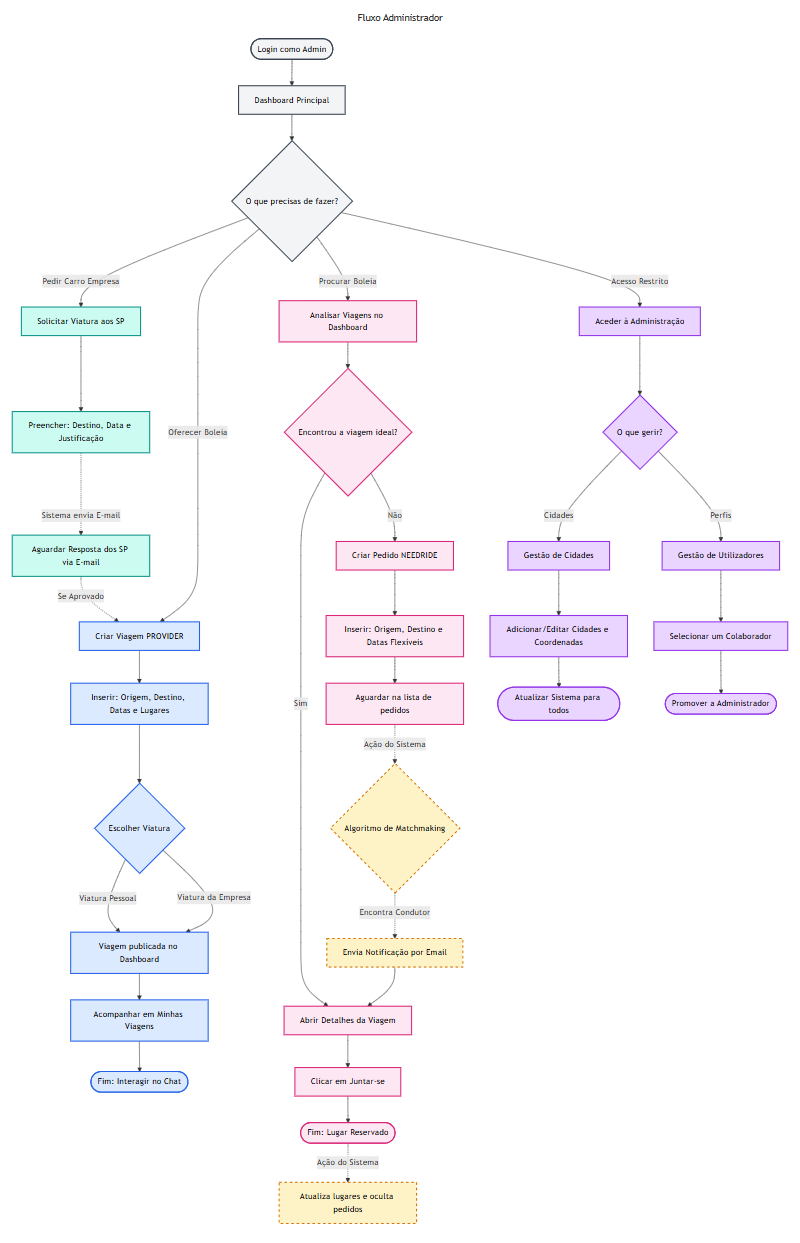
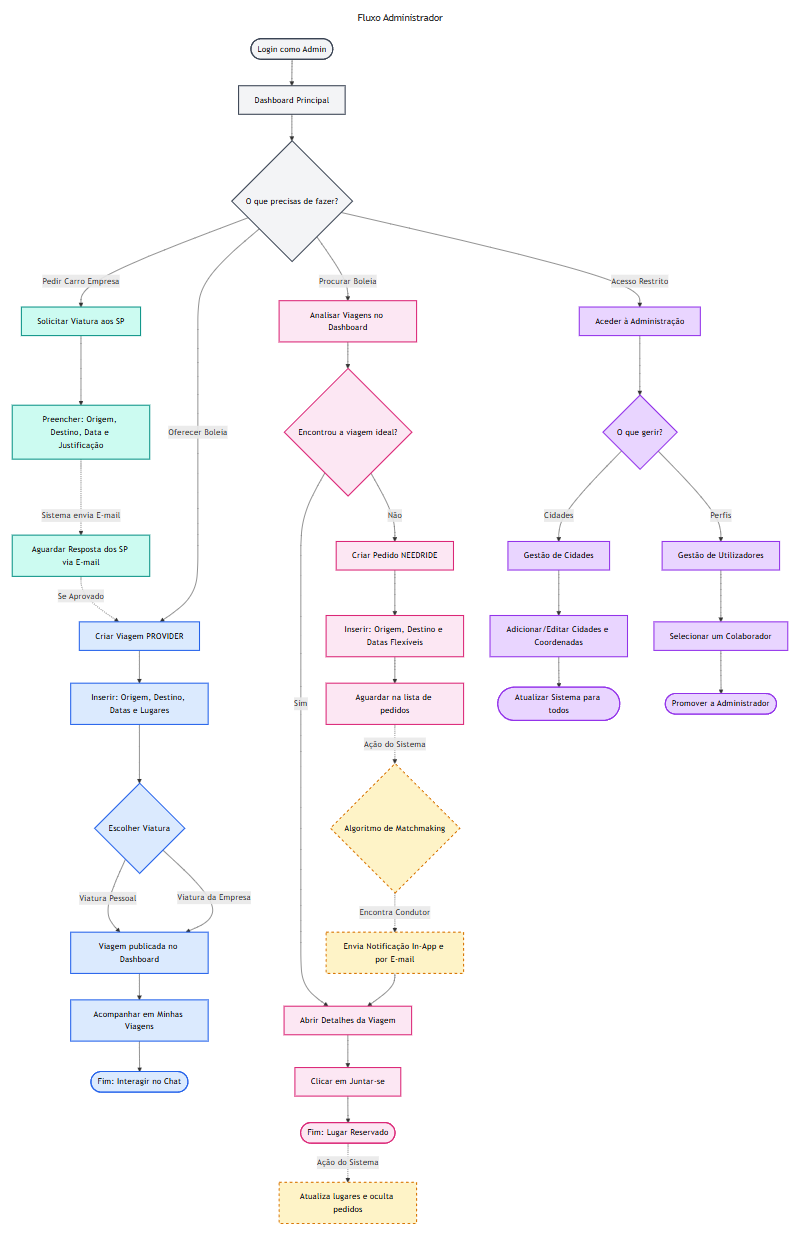
Atualizados diagramas e base de dados

Changed region(s): [[0.0, 0.3057, 0.1875, 0.3974], [0.4062, 0.7337, 0.5938, 0.7949]]

diff --git a/Documentation/Diagramas/base-dados1.md b/Documentation/Diagramas/base-dados1.md
@@ -1,9 +1,9 @@
 # Arquitetura da Base de Dados
 
 ## Conceito e Objetivo
-A plataforma utiliza uma base de dados relacional PostgreSQL, gerida através da ferramenta Drizzle ORM. A arquitetura foi desenhada para garantir a integridade dos dados, evitar duplicação de informação e suportar consultas rápidas e complexas (como as exigidas pelo Algoritmo de Matchmaking). O modelo de dados gira em torno de 7 entidades principais:
+A plataforma utiliza uma base de dados relacional PostgreSQL, gerida através da ferramenta Drizzle ORM. A arquitetura foi desenhada para garantir a integridade dos dados, evitar duplicação de informação e suportar consultas rápidas e complexas (como as exigidas pelo Algoritmo de Matchmaking). O modelo de dados gira em torno de 8 entidades principais:
 
-1. **Utilizadores (users)**: É a tabela central de identidades. Guarda tanto a informação de segurança gerida pela sincronização com o Firebase (onde o Firebase ID atua como a Chave Primária) como os dados de perfil preenchidos pelo colaborador (veículo pessoal, telemóvel, avatar). Também define quem tem privilégios de administração (is_admin).
+1. **Utilizadores (users)**: É a tabela central de identidades. Guarda a informação de segurança gerida pela sincronização com o Firebase (onde o Firebase ID atua como a Chave Primária), bem como os dados de perfil preenchidos pelo colaborador (veículo pessoal, telemóvel, avatar). Define quem tem privilégios de administração (is_admin) e agora suporta também a autenticação OTP, guardando temporariamente o código de verificação de 6 dígitos e a sua respetiva validade de expiração.
 
 2. **Viagens (trips)**: É o pilar central da organização. Esta tabela guarda dois tipos de registos distintos através da coluna 'type':
     - as ofertas de boleias dos condutores (PROVIDER);
@@ -14,10 +14,12 @@ A plataforma utiliza uma base de dados relacional PostgreSQL, gerida através da
 
 4. **Mensagens (messages)**: Suporta o chat interno da plataforma. Para garantir que as conversas têm o contexto certo, o sistema não liga a mensagem a um destinatário específico, mas sim à tabela de Viagens. Cada mensagem liga um remetente (users) a uma viagem (trips), funcionando como um chat focado nessa boleia.
 
-5. **Matches (matches)**: É a tabela de histórico de matches encontrados. Regista o momento em que o algoritmo encontrou compatibilidade entre duas viagens diferentes.
+5. **Leituras de Chat (chat_reads)**: Tabela especializada para gestão granular de notificações. Guarda, para cada utilizador e para cada viagem que ele integra, a data e hora exata em que o chat foi aberto pela última vez. Isto permite à plataforma calcular individualmente quem tem mensagens novas/não lidas num chat de grupo e ativar as notificações In-App.
 
-6. **Cidades (cities)**: Tabela de referência e gestão administrativa. Guarda o catálogo de cidades (nome) usadas nos formulários de criação de viagem. Sendo uma tabela independente, permite aos administradores 'ligar ou desligar' cidades sem quebrar os registos existentes. Permite identificar quais destas localidades são escritórios oficiais da empresa (is_office).
+6. **Matches (matches)**: É a tabela de matches encontrados. Regista o momento em que o algoritmo encontrou compatibilidade entre duas viagens diferentes. Inclui um estado de leitura fundamental (is_read) para gerir as notificações In-App e os alertas visuais nos menus.
 
-7. **Pedidos de Viatura (sp_requests)**: Tabela de histórico de gestão de veículos. Regista todos os pedidos formais de viaturas da empresa feitos pelos colaboradores aos Serviços Partilhados, guardando a data pretendida, o destino e a justificação. Funciona como um comprovativo para o utilizador na plataforma.
+7. **Cidades (cities)**: Tabela de referência e gestão administrativa. Guarda o catálogo de cidades (nome) usadas nos formulários de criação de viagem. Sendo uma tabela independente, permite aos administradores 'ligar ou desligar' cidades sem quebrar os registos existentes. Permite identificar quais destas localidades são escritórios oficiais da empresa (is_office).
+
+8. **Pedidos de Viatura (sp_requests)**: Tabela de histórico de gestão de veículos. Regista todos os pedidos formais de viaturas da empresa feitos pelos colaboradores aos Serviços Partilhados, relacionando as chaves estrangeiras de origem e destino diretamente com a tabela de cidades. Guarda também a data pretendida e a justificação, funcionando como um histórico e comprovativo para o utilizador na plataforma.
 
 [Diagrama da Base de Dados](base-dados.md)

diff --git a/Documentation/Projeto_Informacao.md b/Documentation/Projeto_Informacao.md
@@ -28,11 +28,11 @@ A autenticação dos diversos utilizadores é realizada através da conta google
 ## Funcionalidades
 
 - **Dashboard**: Lista as próximas viagens disponíveis, ordenadas por data ou por localizações.
-- **Minhas Viagens**: Organizada por viagens ativas, correspondências (matches) e histórico de viagens.
+- **Minhas Viagens**: Organizada por viagens ativas, histórico e "Matches", onde o utilizador pode visualizar correspondências para os seus pedidos e utilizar um botão de ação rápida para "Reservar Lugar" diretamente na viagem.
 - **Detalhes da Viagem**: Informação detalhada sobre o trajeto, condutor, observações e lista de participantes atualizada.
 - **Perfil**: Gerir dados pessoais, preferências de condutor (veículo, lugares), regras de passageiros e o registo da viatura pessoal (para preenchimento automático em futuras viagens).
 - **Administração de Cidades**: Área restrita para administradores gerirem a lista de cidades portuguesas disponíveis e as suas coordenadas geográficas.
-- **Autenticação**: Login e verificação de e-mail.
+- **Autenticação**: Login com Google ou Email/Palavra-Passe, suportado por um sistema de verificação OTP (One-Time Password), código de 6 dígitos, que permite validar a conta diretamente na plataforma.
 - **Gestão de Frota (Serviços Partilhados)**: Capacidade de o colaborador solicitar uma viatura da empresa para uma deslocação específica, gerando um pedido formal por e-mail e mantendo um histórico de solicitações na plataforma.
 
 ## Tecnologias Utilizadas
@@ -56,7 +56,7 @@ A autenticação dos diversos utilizadores é realizada através da conta google
 1. O colaborador acede à plataforma e cria uma nova viagem.
 2. O formulário adapta-se e pede dados precisos: origem, destino, data e hora de partida, lugares disponíveis e o tipo de veículo a utilizar (Viatura pessoal ou da Empresa). Se selecionar viatura pessoal, os dados são preenchidos automaticamente através do seu perfil.
 3. Após submeter, a viagem fica visível no dashboard para todos os colegas visualizarem.
-4. O condutor pode acompanhar na aba "Minhas Viagens" quem se juntou à viagem, os lugares disponíveis e pode usar o sistema de mensagens para combinar detalhes com os passageiros.
+4. O condutor pode acompanhar na aba "Minhas Viagens" quem se juntou à viagem e os lugares disponíveis. Pode usar o sistema de mensagens restrito para combinar detalhes com os passageiros. Este chat só é ativado se existirem lugares reservados e o acesso é estritamente limitado ao condutor e aos passageiros confirmados.
 
 ### Fluxo do Passageiro (NEEDRIDE)
 O passageiro pode fazer 2 coisas:
@@ -89,8 +89,8 @@ Para que os utilizadores não tenham de perder tempo a procurar manualmente, a a
 
 [Fluxo da Gestão de Lugares - Diagrama](Diagramas/fluxo-lugares.md)
 - **Gestão de Datas**: O formulário adapta-se consoante o tipo de utilizador; se for um condutor, exige que se coloque data e hora exatas, mas se for um pedido de boleia dá para colocar intervalos de tempo flexíveis.
-- **Ocultação**: Se um utilizador tinha feito um pedido de boleia, mas juntou-se a uma viagem coincidente, então o seu pedido de boleia é ocultado da dashboard.
-- **Notificações**: O sistema envia e-mails em momentos-chave: quando um match é encontrado, para informar que um utilizador se juntou à viagem, para avisar caso a viagem seja cancelada, e para encaminhar pedidos de viaturas diretamente para o departamento de Serviços Partilhados.
+- **Ocultação Automática**: Assim que um utilizador aceita um match e reserva o seu lugar com sucesso, o seu pedido de boleia (NEEDRIDE) original assume automaticamente o estado de resolvido/oculto, desaparecendo dos pedidos ativos na dashboard para manter a lista limpa.
+- **Notificações**: O sistema envia e-mails (via SendGrid) em momentos-chave: quando um match é encontrado, para informar que um utilizador se juntou à viagem, em caso de cancelamento e para solicitações de viaturas aos Serviços Partilhados.
 
 [Fluxo de Notificações por E-Mail - Explicação](Diagramas/fluxo-email1.md)
 

diff --git a/Documentation/Diagramas/base-dados.md b/Documentation/Diagramas/base-dados.md
@@ -6,53 +6,17 @@ erDiagram
     %% Tabelas e Atributos Principais
     USERS {
         string id PK
-        string username
         string email
-        string phone
+        string username
         string avatar_url
-        boolean is_verified
+        string phone
+        string vehicle_info
         boolean is_admin
-        string personal_vehicle_info
+        boolean is_verified
+        string verification_code
+        timestamp verification_expiry
         timestamp created_at
         timestamp updated_at
-    }
-
-    TRIPS {
-        int id PK
-        string user_id FK
-        string type
-        string status 
-        int origin_id FK
-        int destination_id FK
-        timestamp departure_time
-        int available_seats
-        string vehicle_type 
-        string trip_vehicle_details 
-        boolean hidden
-        timestamp created_at
-        timestamp updated_at
-    }
-
-    TRIP_PARTICIPANTS {
-        int id PK
-        int trip_id FK
-        string user_id FK
-        timestamp joined_at
-    }
-
-    MESSAGES {
-        int id PK
-        string sender_id FK
-        int trip_id FK
-        string content
-        boolean is_read
-        timestamp created_at
-    }
-
-    MATCHES {
-        int id PK
-        int provider_trip_id FK
-        int seeker_trip_id FK
     }
 
     CITIES {
@@ -62,25 +26,76 @@ erDiagram
         boolean is_office
     }
 
+    TRIPS {
+        int id PK
+        string user_id FK
+        string type
+        int origin_id FK
+        int destination_id FK
+        timestamp departure_time
+        int available_seats
+        string vehicle_type 
+        string trip_vehicle_details 
+        boolean hidden
+        string status 
+        timestamp created_at
+        timestamp updated_at
+    }
+
     SP_REQUESTS {
         int id PK
         string user_id FK
+        int origin_id FK
         int destination_id FK
         timestamp date_needed 
         string justification 
         timestamp created_at 
     }
 
+    TRIP_PARTICIPANTS {
+        int id PK
+        int trip_id FK
+        string user_id FK
+        timestamp joined_at
+    }
+
+    MATCHES {
+        int id PK
+        int provider_trip_id FK
+        int seeker_trip_id FK
+        timestamp created_at
+        string status
+        boolean is_read
+    }
+
+    CHAT_READS {
+        int id PK
+        string user_id FK
+        int trip_id FK
+        timestamp last_read_at
+    }
+
+    MESSAGES {
+        int id PK
+        int trip_id FK
+        string sender_id FK
+        string content
+        boolean is_read
+        timestamp created_at
+    }
+
     %% Relações (Foreign Keys)
     USERS ||--o{ TRIPS : "cria (1:N)"
     USERS ||--o{ TRIP_PARTICIPANTS : "junta-se a (1:N)"
-    USERS ||--o{ MESSAGES : "envia / recebe (1:N)"
+    USERS ||--o{ MESSAGES : "envia (1:N)"
     USERS ||--o{ SP_REQUESTS : "solicita viatura (1:N)"
+    USERS ||--o{ CHAT_READS : "regista leitura (1:N)"
     
     TRIPS ||--o{ TRIP_PARTICIPANTS : "contém (1:N)"
     TRIPS ||--o{ MESSAGES : "contextualiza (1:N)"
     TRIPS ||--o{ MATCHES : "emparelha com (1:N)"
+    TRIPS ||--o{ CHAT_READS : "controla leituras (1:N)"
     
     CITIES ||--o{ TRIPS : "origem / destino (1:N)"
-    CITIES ||--o{ SP_REQUESTS : "destino (1:N)"
+    CITIES ||--o{ SP_REQUESTS : "origem / destino (1:N)"
 ```

diff --git a/Documentation/Diagramas/fluxo-email1.md b/Documentation/Diagramas/fluxo-email1.md
@@ -6,7 +6,7 @@ O sistema de notificações da plataforma atua como o principal canal de comunic
 
 ## Catálogos de E-Mail
 O sistema atualmente tem 5 tipos de e-mails configurados, que disparam automaticamente consoante as ações na plataforma.
-1. **Verificação de Conta**: Quando um utilizador se regista na plataforma pela primeira vez. Apenas destinado aos novos utilizadores. O e-mail contém um link de segurança único (que expira em 24 horas) para validar a propriedade do endereço de e-mail.
+1. **Verificação de Conta**: Quando um utilizador se regista na plataforma pela primeira vez. Apenas destinado aos novos utilizadores. O e-mail contém um Código OTP de Verificação único para validar a propriedade do endereço de e-mail.
 2. **Notificação de Match**: Quando o algoritmo de Matchmaking deteta que uma nova oferta de viagem (PROVIDER) coincide com o pedido de um passageiro (NEEDRIDE), ou vice-versa. Apenas destinado ao passageiro (NEEDRIDE). O e-mail informa a origem, destino, data, o número de opções compatíveis e inclui um link direto para a viagem do condutor, facilitando a reserva rápida.
 3. **Confirmação de Reserva**: Quando o passageiro clica no botão de 'Juntar-se' a uma viagem. Apenas o passageiro recebe. O e-mail confirma a reserva e fornece os detalhes da viagem, o nome do condutor e o número de lugares que ainda sobram no carro.
 4. **Alerta de Novo Passageiro**: Quando um passageiro se junta a uma viagem. Apenas o condutor (PROVIDER) recebe o e-mail. O e-mail informa o condutor de que um colega (indicando o nome) acabou de reservar um lugar no seu carro, sugerindo a utilização do Chat da plataforma para combinar detalhes.

diff --git a/Documentation/Diagramas/fluxo-autenticacao1.md b/Documentation/Diagramas/fluxo-autenticacao1.md
@@ -15,8 +15,8 @@ Para evitar contas falsas ou acessos indevidos, a plataforma implementa uma barr
 
 - Quando um novo utilizador é sincronizado, a sua flag de acesso é marcada como 'Requer Verificação de E-mail'.
 - O sistema bloqueia o acesso ao dashboard e redireciona o utilizador para uma página de 'Verificação Pendente'.
-- Simultaneamente, o SendGrid dispara um e-mail com um Token criptográfico único (válido por 24 horas).
-- Apenas quando o utilizador clica no link e o backend valida o token, a conta é marcada como 'Verificada' e o acesso total à plataforma é desbloqueado.
+- Simultaneamente, o SendGrid dispara um e-mail com um código OTP de 6 dígitos.
+- Apenas quando o utilizador insere o código e o backend valida , a conta é marcada como 'Verificada' e o acesso total à plataforma é desbloqueado.
 
 **NOTA**: A edição de informações adicionais, como o número de telemóvel, dados do veículo e regras de viagem, não é obrigatória no momento do registo. O utilizador pode preencher estes dados mais tarde na sua página de Perfil, garantindo uma entrada rápida e sem fricção na plataforma.
 

diff --git a/Documentation/Diagramas/fluxo-global.md b/Documentation/Diagramas/fluxo-global.md
@@ -17,7 +17,7 @@ graph TD
 
     %% FLUXO DE FROTA / SP (NOVO)
     C -->|Pedir Carro Empresa| SP1[Solicitar Viatura aos SP]
-    SP1 --> SP2[Preencher: Destino, Data e Justificação]
+    SP1 --> SP2[Preencher: Origem, Destino, Data e Justificação]
     SP2 -.->|Sistema envia E-mail| SP3[Aguardar Resposta dos SP via E-mail]
     SP3 -.->|Se Aprovado| D
 
@@ -45,7 +45,7 @@ graph TD
     
     %% O Sistema
     Q -.->|Ação do Sistema| R{Algoritmo de Matchmaking}
-    R -.->|Encontra Condutor| S[Envia Notificação por Email]
+    R -.->|Encontra Condutor| S[Envia Notificação In-App e por E-mail]
     S --> K
 
     %% FLUXO DE ADMINISTRAÇÃO (Acesso: Restrito)

diff --git a/Documentation/Diagramas/fluxo-admin.md b/Documentation/Diagramas/fluxo-admin.md
@@ -17,7 +17,7 @@ graph TD
 
     %% FLUXO DE FROTA / SP (NOVO)
     C -->|Pedir Carro Empresa| SP1[Solicitar Viatura aos SP]
-    SP1 --> SP2[Preencher: Destino, Data e Justificação]
+    SP1 --> SP2[Preencher: Origem, Destino, Data e Justificação]
     SP2 -.->|Sistema envia E-mail| SP3[Aguardar Resposta dos SP via E-mail]
     SP3 -.->|Se Aprovado| D
 
@@ -45,7 +45,7 @@ graph TD
     
     %% O Sistema
     Q -.->|Ação do Sistema| R{Algoritmo de Matchmaking}
-    R -.->|Encontra Condutor| S[Envia Notificação por Email]
+    R -.->|Encontra Condutor| S[Envia Notificação In-App e por E-mail]
     S --> K
 
     %% FLUXO DE ADMINISTRAÇÃO (Acesso Restrito)

diff --git a/Documentation/Diagramas/fluxo-utilizadores.md b/Documentation/Diagramas/fluxo-utilizadores.md
@@ -16,7 +16,7 @@ graph TD
 
     %% FLUXO DE FROTA / SP (NOVO)
     C -->|Pedir Carro Empresa| SP1[Solicitar Viatura aos SP]
-    SP1 --> SP2[Preencher: Destino, Data e Justificação]
+    SP1 --> SP2[Preencher: Origem, Destino, Data e Justificação]
     SP2 -.->|Sistema envia E-mail| SP3[Aguardar Resposta dos SP via E-mail]
     SP3 -.->|Se Aprovado| D
 
@@ -44,7 +44,7 @@ graph TD
     
     %% O Sistema
     Q -.->|Ação do Sistema| R{Algoritmo de Matchmaking}
-    R -.->|Encontra Condutor| S[Envia Notificação por Email]
+    R -.->|Encontra Condutor| S[Envia Notificação In-App e por E-mail]
     S --> K
 
     %% Aplicar as classes

diff --git a/Documentation/Diagramas/fluxo-autenticacao.md b/Documentation/Diagramas/fluxo-autenticacao.md
@@ -28,9 +28,9 @@ graph TD
     I[Bloqueia UI: Redireciona para<br>'Verificação Pendente']
     
     %% Barreira de Segurança
-    J[SendGrid: Dispara E-mail com Token de 24h]
-    K([Utilizador abre o e-mail e clica no link])
-    L[Backend valida o Token]
+    J[SendGrid: Dispara E-mail com Código OTP de 6 dígitos]
+    K([Utilizador vê o código e insere no ecrã da App])
+    L[Backend valida o Código OTP]
     M[Altera conta para 'E-mail Verificado' = true]
 
     %% 3. LIGAÇÕES

diff --git a/Documentation/Diagramas/fluxo-email.md b/Documentation/Diagramas/fluxo-email.md
@@ -20,7 +20,7 @@ graph LR
     API{{Integração SendGrid}}
 
     %% 4. TIPOS DE E-MAIL
-    M1[1. Verificação de Conta]
+    M1[1. Código OTP de Verificação]
     M2[2. Notificação de Match]
     M3[3. Confirmação de Reserva]
     M4[4. Alerta de Novo Passageiro]
